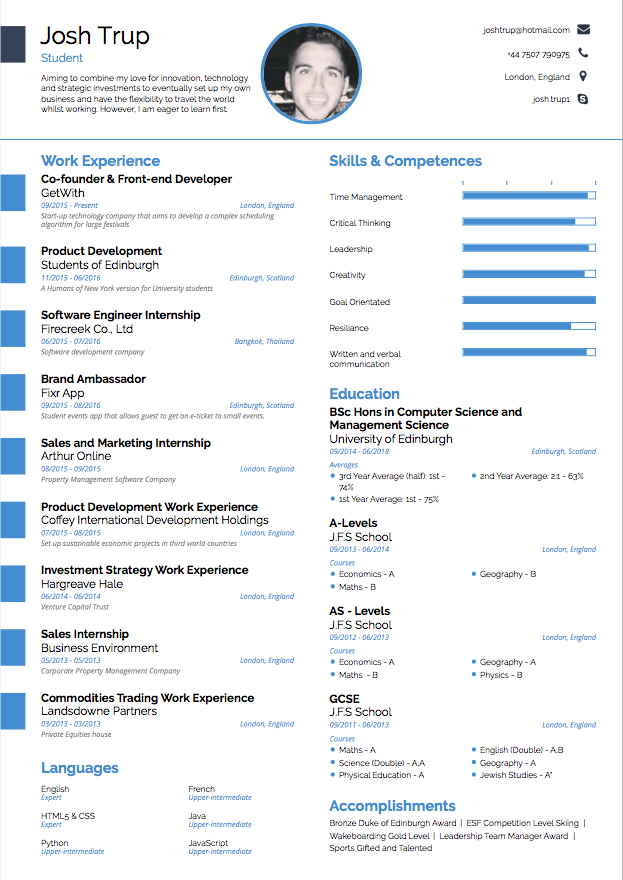
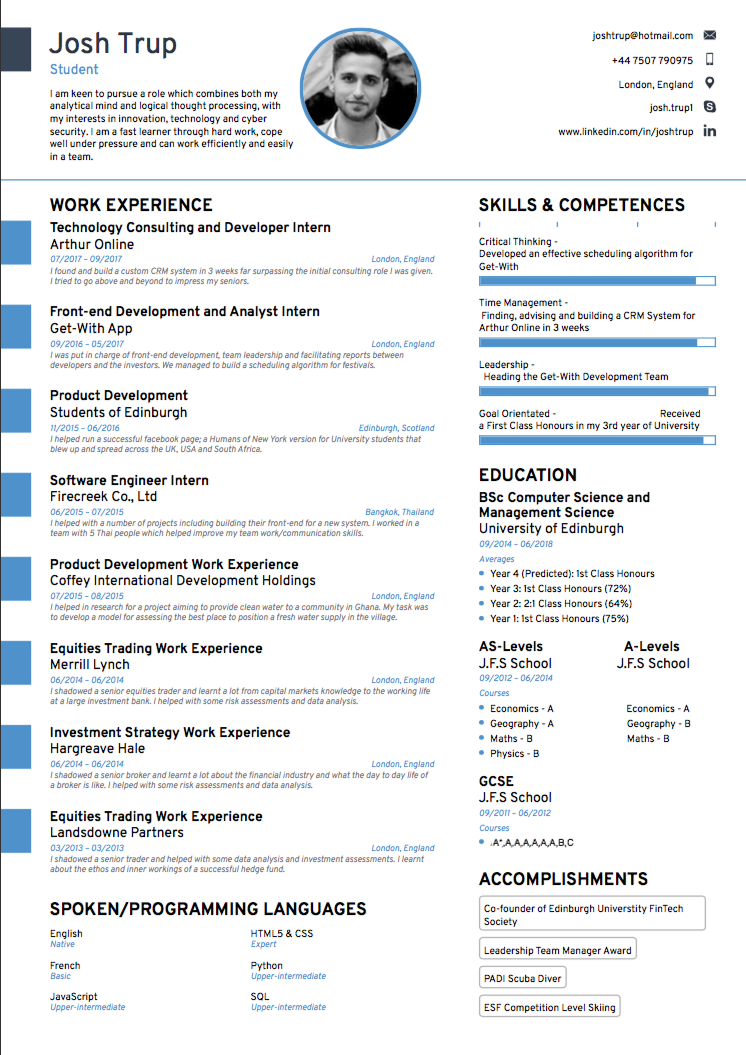
updates

Changed region(s): [[0.0, 0.0, 1.0, 0.9818], [0.0, 0.0614, 0.0305, 0.092], [0.0, 0.0, 0.0305, 0.0307]]

diff --git a/index.html b/index.html
@@ -53,7 +53,7 @@
               <span>About</span>
             </a>
             <a data-scroll="" href="#work">
-              <span>Work</span>
+              <span>Thesis</span>
             </a>
              <a data-scroll="" href="#services">
               <span>Services</span>
@@ -124,7 +124,7 @@
                   <div class="wrap-about">
                     <div class="w-content">
                       <p class="head-about">
-                        Aiming to combine my love for innovation, technology and strategic investments to eventually set up my own business and have the flexibility to travel the world whilst working. However, I am eager to learn first.
+                        I am keen to pursue a role which combines both my analytical mind and logical thought processing, with my interests in innovation and technology. I am a fast learner through hard work, cope well under pressure and can work efficiently and easily in a team.
                       </p>
                       
                       <h5 class="name">
@@ -146,14 +146,9 @@
                             <td> Josh Trup</td>
                           </tr>
                           <tr>
-                            <td class="title">Phone </td>
-                            <td class="break">:</td>
-                            <td> +44 75077 90975</td>
-                          </tr>
-                          <tr>
                             <td class="title">Email </td>
                             <td class="break">:</td>
-                            <td> josh@get-with.com</td>
+                            <td> joshtrup@hotmail.com</td>
                           </tr>
                           <tr>
                             <td class="title">Skype </td>
@@ -171,22 +166,46 @@
                   </div>
                 </div>
               </div>
+
+               <div class="col-md-12 col-sm-12 col-xs-12 white-col">
+                  <div class="row">
+                    <div class="col-md-8 col-md-offset-2 col-sm-8 col-sm-offset-2 col-xs-12">
+                      <div class="wrap-about">
+                          <ul class="portfolio-image">
+                            <li class="col-md-6">
+                              <a href="images/resume.png">
+                                <div class="decription-wrap">
+                                  <div class="image-bg">
+                                     <p class="desc">My Resume</p>
+                                  </div>
+                                </div>
+                              </a>
+                            </li>
+                          </ul>
+                      </div>
+                    </div>
+                  </div>
+                </div>
+              </div>
+              
               <!--/.OWL CAROUSEL2 END-->
             </div>
           </div>
         </section>
         <!--/.ABOUT END-->
 
-        <!--WORK-->
+        <!--Thesis-->
         <section class="grey-bg mar-tm-10" id="work">
           <div class="container">
             <div class="row">
               <div class="col-md-4">
                 <h3 class="title-small">
-                  <span>Work</span>
+                  <span>My Thesis</span>
                 </h3>
                 <p class="content-detail">
-                  I have been lucky enoughy to have been given a great education leading up to my university carrer. <br><br>In terms of my experince, in the workplace, I have worked in various industries in several countires as well as having traveled around the world to many countries accross most continents. 
+                 The aim of this thesis is the gauge understanding of where significant inefficiencies lie within the transaction process of a residential property in the UK and determine if technology intervention using blockchain and smart contracts can reduce these inefficiencies and create a more transparent and trusting process for society. Research questions have been posed visualizing the likelihood of blockchain adoption through the lense the Technology Acceptance Model extension framework. 
+                <br>
+                Please click the link on the right for the full thesis.
                 </p>
               </div>
               <li class="col-md-2">
@@ -195,10 +214,10 @@
                 <!--PORTFOLIO IMAGE-->
                 <ul class="portfolio-image">
                   <li class="col-md-6">
-                    <a href="images/resume.png"><img alt="image" src="images/bw-1.png">
+                    <a href="https://drive.google.com/file/d/1A9tW79Q50JXfzN6IHsYDDormwXupT-Dq/view?usp=sharing"><img alt="image" src="images/bw-1.png">
                       <div class="decription-wrap">
                         <div class="image-bg">
-                           <p class="desc">My Resume</p>
+                           <p class="desc">My Thesis</p>
                         </div>
 
                       </div>
@@ -327,21 +346,69 @@
             <div class="row">
               <div class="col-md-3">
                 <h3 class="title-small">
-                  <span>Internships and Experience</span>
+                  <span>Employment</span>
                 </h3>
                 <p class="content-detail">
                   I have been lucky in being able to undertake internships and work experiences in a range of industries from investment firms to software development to social welfare companines.
                 </p>
               </div>
               <div class="col-md-9 content-right">
-                <div class="row">
+                <div class="row"><ul class="listing-item">
+                    <li>
+                      <div class="col-md-6 col-sm-6">
+                        <div class="wrap-card">
+                          <div class="card">
+                            <h2 class="year">
+                              2019
+                            </h2>
+                            <p class="job">
+                             Cyber Security (Core) Consultant
+                            </p>
+                            <p class="company">
+                              PwC
+                            </p>
+                            <hr>
+                            <div class="text-detail">
+                              <p>
+                              I have accepted a role at PwC starting in September 2019 as a Cyber Security Consultant.
+                              </p>
+                            </div>
+                          </div>
+                        </div>
+                      </div>
+                    </li>
+
+                    <li>
+                      <div class="col-md-6 col-sm-6">
+                        <div class="wrap-card">
+                          <div class="card">
+                            <h2 class="year">
+                              2017 - 2018
+                            </h2>
+                            <p class="job">
+                               Technology Consulting and Developer Intern
+                            </p>
+                            <p class="company">
+                              Arthur Online
+                            </p>
+                            <hr>
+                            <div class="text-detail">
+                              <p>
+                                 I found and build a custom CRM system in 3 weeks far surpassing the initial consulting role I was given. I tried to go above and beyond to impress my seniors.
+                              </p>
+                            </div>
+                          </div>
+                        </div>
+                      </div>
+                    </li>
+                  </ul>  
                   <ul class="listing-item">
                     <li>
                       <div class="col-md-6 col-sm-6">
                         <div class="wrap-card">
                           <div class="card">
                             <h2 class="year">
-                              2016 - Present
+                              2016 - 2017
                             </h2>
                             <p class="job">
                               Co-founder and Frontend Developer
@@ -495,6 +562,13 @@
                     <div class="count-bar">
                       <div class="count"></div>
                     </div>
+                    <div class="skillbar" data-percent="95%">
+                    <div class="title head-sm">
+                      Expertise in using Microsoft Office applications
+                    </div>
+                    <div class="count-bar">
+                      <div class="count"></div>
+                    </div>
                   </div>
                 </div>
                 <!--/.SKILLST END-->
@@ -519,15 +593,48 @@
               <div class="col-md-9 content-right">
                 <div class="row">
                   <ul class="listing-item">
+                   
+                   <li>
+                      <div class="col-md-6 col-sm-6">
+                        <div class="wrap-card">
+                          <div class="card">
+                            <h2 class="year">
+                              2013-2014
+                            </h2>
+                            <p class="job">
+                              Computer Science and Managment Science BSc
+                            </p>
+                            <p class="company">
+                              Edinburgh University
+                            </p>
+                            <hr>
+                            <div class="text-detail">
+                              <p>
+                                Year 1 - 1st Class Hons (75%)
+                                <br>
+                                Year 2 - 2:1 Class Hons (64%)
+                                <br>
+                                Year 3 - 1st Class Hons (74%) 
+                                <br>
+                                Year 4 - Not Recieved
+                              </p>
+                            </div>
+                          </div>
+                        </div>
+                      </div>
+                    </li>
+
+                    
+                  <ul class="listing-item">
                     <li>
                       <div class="col-md-6 col-sm-6">
                         <div class="wrap-card">
                           <div class="card">
                             <h2 class="year">
-                              2011 - 2012
+                              2013 - 2014
                             </h2>
                             <p class="job">
-                               GCSE
+                              A-Levels
                             </p>
                             <p class="company">
                               JFS School
@@ -535,21 +642,11 @@
                             <hr>
                             <div class="text-detail">
                               <p>
-                                Religeous Studies - A*
-                                <br>
-                                Maths - A
-                                <br>
-                                Science (double) - A,A
+                                Economics - A
                                 <br>
                                 Geography - A
                                 <br>
-                                French - A
-                                <br>
-                                Physical Education - A
-                                <br>
-                                English Litrature - B
-                                <br>
-                                English Language - B
+                                Maths - B
                               </p>
                             </div>
                           </div>
@@ -587,16 +684,16 @@
                       </div>
                     </li>
                   </ul>
-                  <ul class="listing-item">
-                    <li>
+
+                     <li>
                       <div class="col-md-6 col-sm-6">
                         <div class="wrap-card">
                           <div class="card">
                             <h2 class="year">
-                              2013 - 2014
+                              2011 - 2012
                             </h2>
                             <p class="job">
-                              A-Levels
+                               GCSE
                             </p>
                             <p class="company">
                               JFS School
@@ -604,39 +701,21 @@
                             <hr>
                             <div class="text-detail">
                               <p>
-                                Economics - A
+                                Religeous Studies - A*
+                                <br>
+                                Maths - A
+                                <br>
+                                Science (double) - A,A
                                 <br>
                                 Geography - A
                                 <br>
-                                Maths - B
-                              </p>
-                            </div>
-                          </div>
-                        </div>
-                      </div>
-                    </li>
-
-                    <li>
-                      <div class="col-md-6 col-sm-6">
-                        <div class="wrap-card">
-                          <div class="card">
-                            <h2 class="year">
-                              2013-2014
-                            </h2>
-                            <p class="job">
-                              Computer Science and Managment Science BSc
-                            </p>
-                            <p class="company">
-                              Edinburgh University
-                            </p>
-                            <hr>
-                            <div class="text-detail">
-                              <p>
-                                Year 1 - 75%
+                                French - A
                                 <br>
-                                Year 2 - 64%
+                                Physical Education - A
                                 <br>
-                                Year 3 - 74% 
+                                English Litrature - B
+                                <br>
+                                English Language - B
                               </p>
                             </div>
                           </div>
@@ -661,7 +740,7 @@
                   <div class="list-testimonial">
                     <div class="content-testimonial">
                       <h3 class="testi">
-                        “ Josh did a phenominal job setting up my a website for my product He performed the task very quickly and efficiently. We know we have the superior topical pain relief cream on the market and he has helped us communicate that message via the website he built from scratch. Thanks! ”
+                        “ Josh did a phenominal job setting up my a website for my product. He performed the task very quickly and efficiently. We know we have the superior topical pain relief cream on the market and he has helped us communicate that message via the website he built from scratch. Thanks! ”
                       </h3>
                       <p class="people">
                         Darren Moore
@@ -681,7 +760,7 @@
                   <div class="list-testimonial">
                     <div class="content-testimonial">
                       <h3 class="testi">
-                        “ Great designer! I like his sense of design, especially the color scheme. Quick turnaround. Look forward to work with him again. Thanks!! ”
+                        “Great designer! I like his sense of design, especially the color scheme. Quick turnaround. Look forward to work with him again. Thanks!! ”
                       </h3>
                       <p class="people">
                         Jono Davies
@@ -737,7 +816,7 @@
                 <a href="https://www.facebook.com/JoshTrup" data-hover="Facebook">Facebook</a>
               </li>
               <li class="twitter">
-                <a href="#" data-hover="Twitter">Twitter</a>
+                <a href="https://www.linkedin.com/in/josh-trup-b3706b107/" data-hover="Twitter">LinkedIn</a>
               </li>
               <li class="gplus">
                 <a href="#" data-hover="Google +">Google +</a>

diff --git a/js/smooth-scroll.min.js b/js/smooth-scroll.min.js
@@ -1,2 +1,3 @@
+
 /*! smooth-scroll v7.1.1 | (c) 2015 Chris Ferdinandi | MIT License | http://github.com/cferdinandi/smooth-scroll */
 !function(e,t){"function"==typeof define&&define.amd?define([],t(e)):"object"==typeof exports?module.exports=t(e):e.smoothScroll=t(e)}("undefined"!=typeof global?global:this.window||this.global,function(e){"use strict";var t,n,o,r,a={},u="querySelector"in document&&"addEventListener"in e,c={selector:"[data-scroll]",selectorHeader:"[data-scroll-header]",speed:500,easing:"easeInOutCubic",offset:0,updateURL:!0,callback:function(){}},i=function(){var e={},t=!1,n=0,o=arguments.length;"[object Boolean]"===Object.prototype.toString.call(arguments[0])&&(t=arguments[0],n++);for(var r=function(n){for(var o in n)Object.prototype.hasOwnProperty.call(n,o)&&(t&&"[object Object]"===Object.prototype.toString.call(n[o])?e[o]=i(!0,e[o],n[o]):e[o]=n[o])};o>n;n++){var a=arguments[n];r(a)}return e},s=function(e){return Math.max(e.scrollHeight,e.offsetHeight,e.clientHeight)},l=function(e,t){var n,o,r=t.charAt(0),a="classList"in document.documentElement;for("["===r&&(t=t.substr(1,t.length-2),n=t.split("="),n.length>1&&(o=!0,n[1]=n[1].replace(/"/g,"").replace(/'/g,"")));e&&e!==document;e=e.parentNode){if("."===r)if(a){if(e.classList.contains(t.substr(1)))return e}else if(new RegExp("(^|\\s)"+t.substr(1)+"(\\s|$)").test(e.className))return e;if("#"===r&&e.id===t.substr(1))return e;if("["===r&&e.hasAttribute(n[0])){if(!o)return e;if(e.getAttribute(n[0])===n[1])return e}if(e.tagName.toLowerCase()===t)return e}return null},f=function(e){for(var t,n=String(e),o=n.length,r=-1,a="",u=n.charCodeAt(0);++r<o;){if(t=n.charCodeAt(r),0===t)throw new InvalidCharacterError("Invalid character: the input contains U+0000.");a+=t>=1&&31>=t||127==t||0===r&&t>=48&&57>=t||1===r&&t>=48&&57>=t&&45===u?"\\"+t.toString(16)+" ":t>=128||45===t||95===t||t>=48&&57>=t||t>=65&&90>=t||t>=97&&122>=t?n.charAt(r):"\\"+n.charAt(r)}return a},d=function(e,t){var n;return"easeInQuad"===e&&(n=t*t),"easeOutQuad"===e&&(n=t*(2-t)),"easeInOutQuad"===e&&(n=.5>t?2*t*t:-1+(4-2*t)*t),"easeInCubic"===e&&(n=t*t*t),"easeOutCubic"===e&&(n=--t*t*t+1),"easeInOutCubic"===e&&(n=.5>t?4*t*t*t:(t-1)*(2*t-2)*(2*t-2)+1),"easeInQuart"===e&&(n=t*t*t*t),"easeOutQuart"===e&&(n=1- --t*t*t*t),"easeInOutQuart"===e&&(n=.5>t?8*t*t*t*t:1-8*--t*t*t*t),"easeInQuint"===e&&(n=t*t*t*t*t),"easeOutQuint"===e&&(n=1+--t*t*t*t*t),"easeInOutQuint"===e&&(n=.5>t?16*t*t*t*t*t:1+16*--t*t*t*t*t),n||t},m=function(e,t,n){var o=0;if(e.offsetParent)do o+=e.offsetTop,e=e.offsetParent;while(e);return o=o-t-n,o>=0?o:0},h=function(){return Math.max(e.document.body.scrollHeight,e.document.documentElement.scrollHeight,e.document.body.offsetHeight,e.document.documentElement.offsetHeight,e.document.body.clientHeight,e.document.documentElement.clientHeight)},p=function(e){return e&&"object"==typeof JSON&&"function"==typeof JSON.parse?JSON.parse(e):{}},g=function(t,n){e.history.pushState&&(n||"true"===n)&&"file:"!==e.location.protocol&&e.history.pushState(null,null,[e.location.protocol,"//",e.location.host,e.location.pathname,e.location.search,t].join(""))},b=function(e){return null===e?0:s(e)+e.offsetTop};a.animateScroll=function(t,n,a){var u=p(t?t.getAttribute("data-options"):null),s=i(s||c,a||{},u);n="#"+f(n.substr(1));var l="#"===n?e.document.documentElement:e.document.querySelector(n),v=e.pageYOffset;o||(o=e.document.querySelector(s.selectorHeader)),r||(r=b(o));var y,O,S,I=m(l,r,parseInt(s.offset,10)),H=I-v,E=h(),L=0;g(n,s.updateURL);var j=function(o,r,a){var u=e.pageYOffset;(o==r||u==r||e.innerHeight+u>=E)&&(clearInterval(a),l.focus(),s.callback(t,n))},w=function(){L+=16,O=L/parseInt(s.speed,10),O=O>1?1:O,S=v+H*d(s.easing,O),e.scrollTo(0,Math.floor(S)),j(S,I,y)},C=function(){y=setInterval(w,16)};0===e.pageYOffset&&e.scrollTo(0,0),C()};var v=function(e){var n=l(e.target,t.selector);n&&"a"===n.tagName.toLowerCase()&&(e.preventDefault(),a.animateScroll(n,n.hash,t))},y=function(e){n||(n=setTimeout(function(){n=null,r=b(o)},66))};return a.destroy=function(){t&&(e.document.removeEventListener("click",v,!1),e.removeEventListener("resize",y,!1),t=null,n=null,o=null,r=null)},a.init=function(n){u&&(a.destroy(),t=i(c,n||{}),o=e.document.querySelector(t.selectorHeader),r=b(o),e.document.addEventListener("click",v,!1),o&&e.addEventListener("resize",y,!1))},a});
